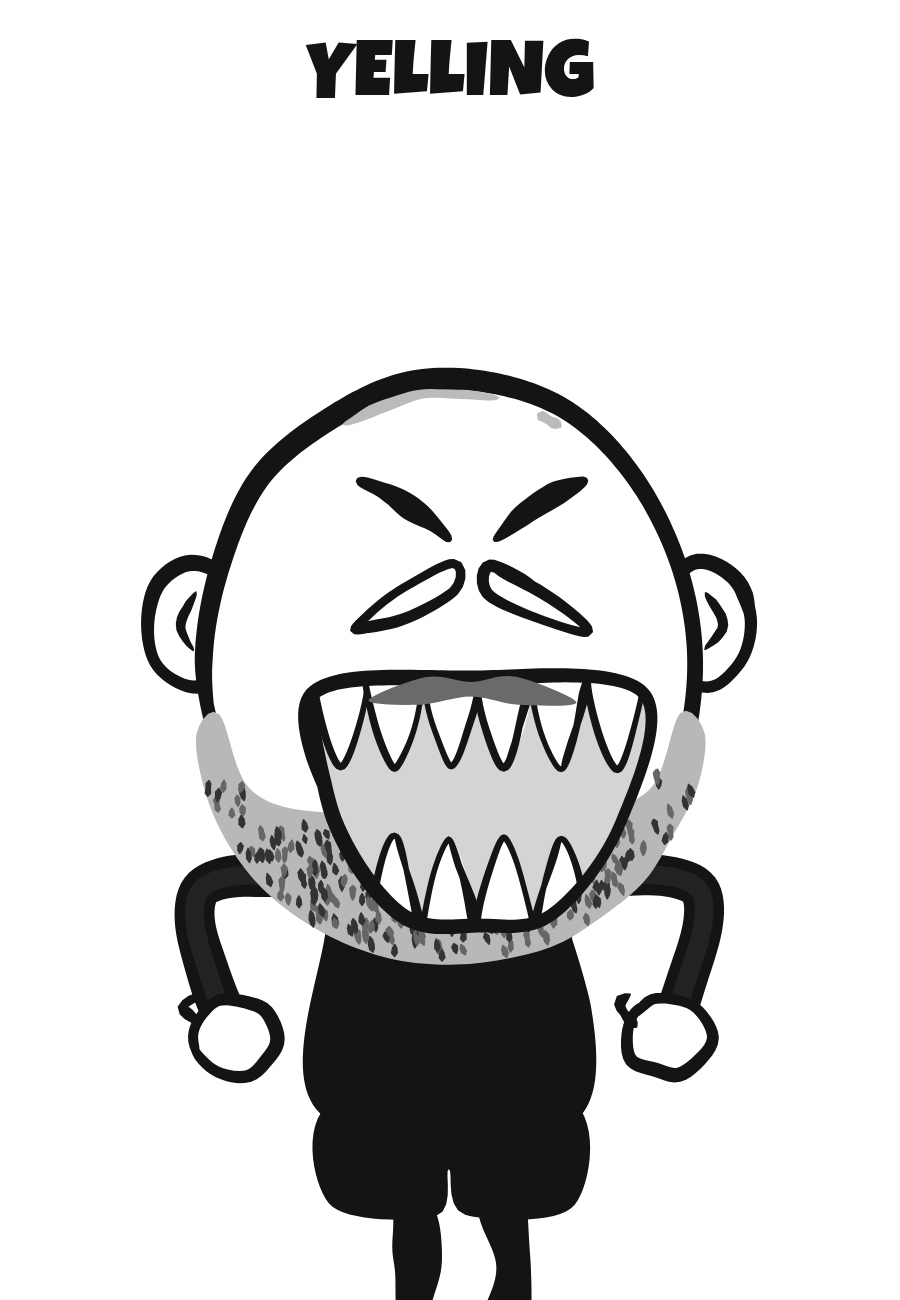
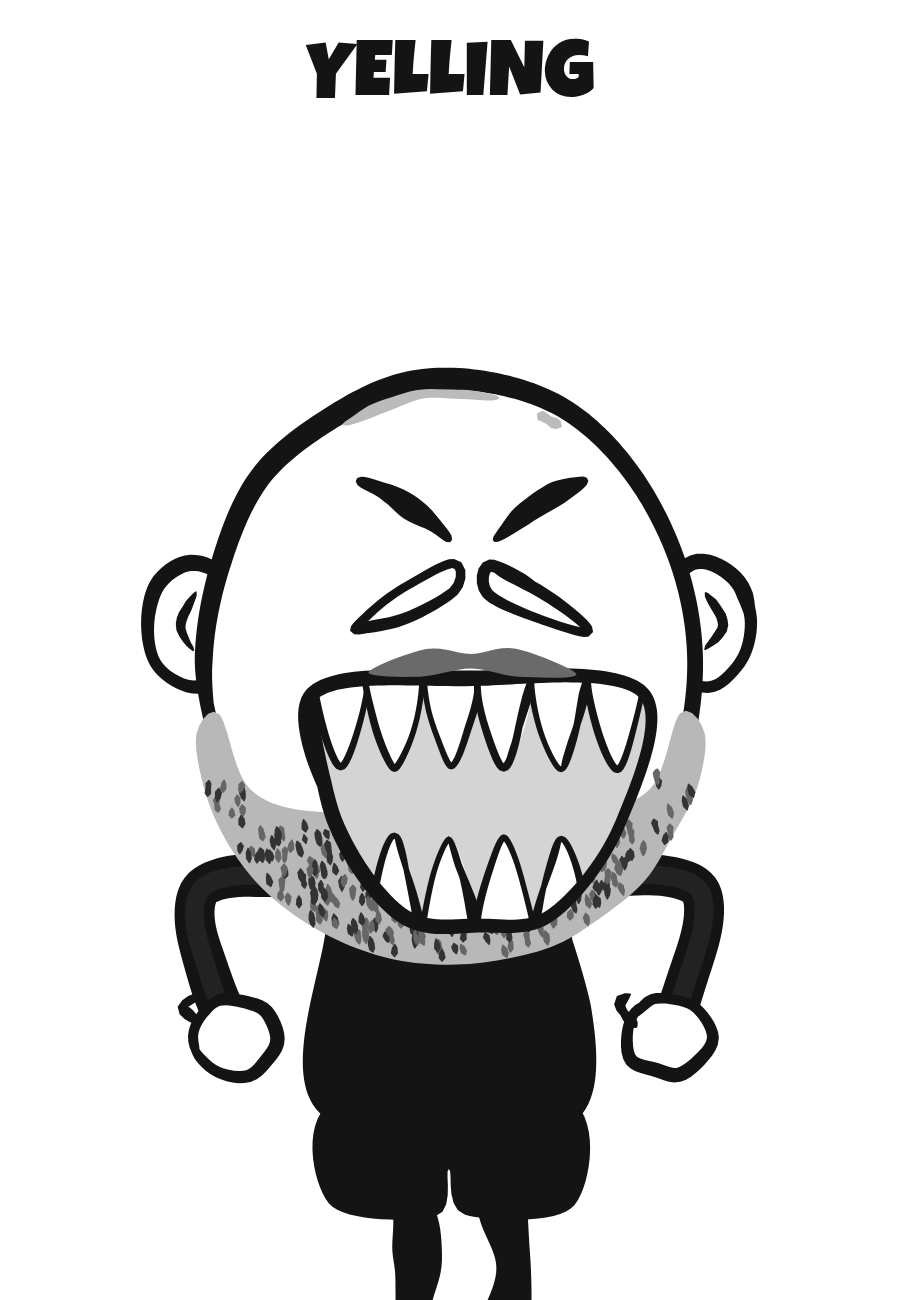
Slime's moustache rides up over the rage mouth
Claude-Session: https://claude.ai/code/session_01BoxvgZ1TpRreVfD9rN3XD5

Changed region(s): [[0.4044, 0.4923, 0.6533, 0.5538]]

diff --git a/web/cameos.js b/web/cameos.js
@@ -656,8 +656,9 @@ const Cameos = (() => {
       stroke(ctx, [[x, y], [x + 1 + (hh(i + 90) - 0.5) * 4, y + 6 + hh(i + 3) * 4]], { w: 3.5, color: hh(i + 11) > 0.5 ? '#333' : '#666', jit: 0.3 });
     }
   };
-  const slimeStache = (ctx, fx) => {
-    const m = [[fx - 58, 50], [fx - 26, 36], [fx, 40], [fx + 26, 36], [fx + 60, 50], [fx + 28, 52], [fx, 48], [fx - 28, 52]];
+  const slimeStache = (ctx, fx, rage) => {
+    const up = rage ? 16 : 0;   // rides up over the huge open mouth
+    const m = [[fx - 58, 50], [fx - 26, 36], [fx, 40], [fx + 26, 36], [fx + 60, 50], [fx + 28, 52], [fx, 48], [fx - 28, 52]].map(([x, y]) => [x, y - up]);
     fill(ctx, m, '#6a6a6a', 1);
   };
   const slime = build({ shirt: INK, sleeve: '#222', head: head({ back: ears, hair: shaved, beard: shortBeard, front: slimeStache, browW: 12 }),
